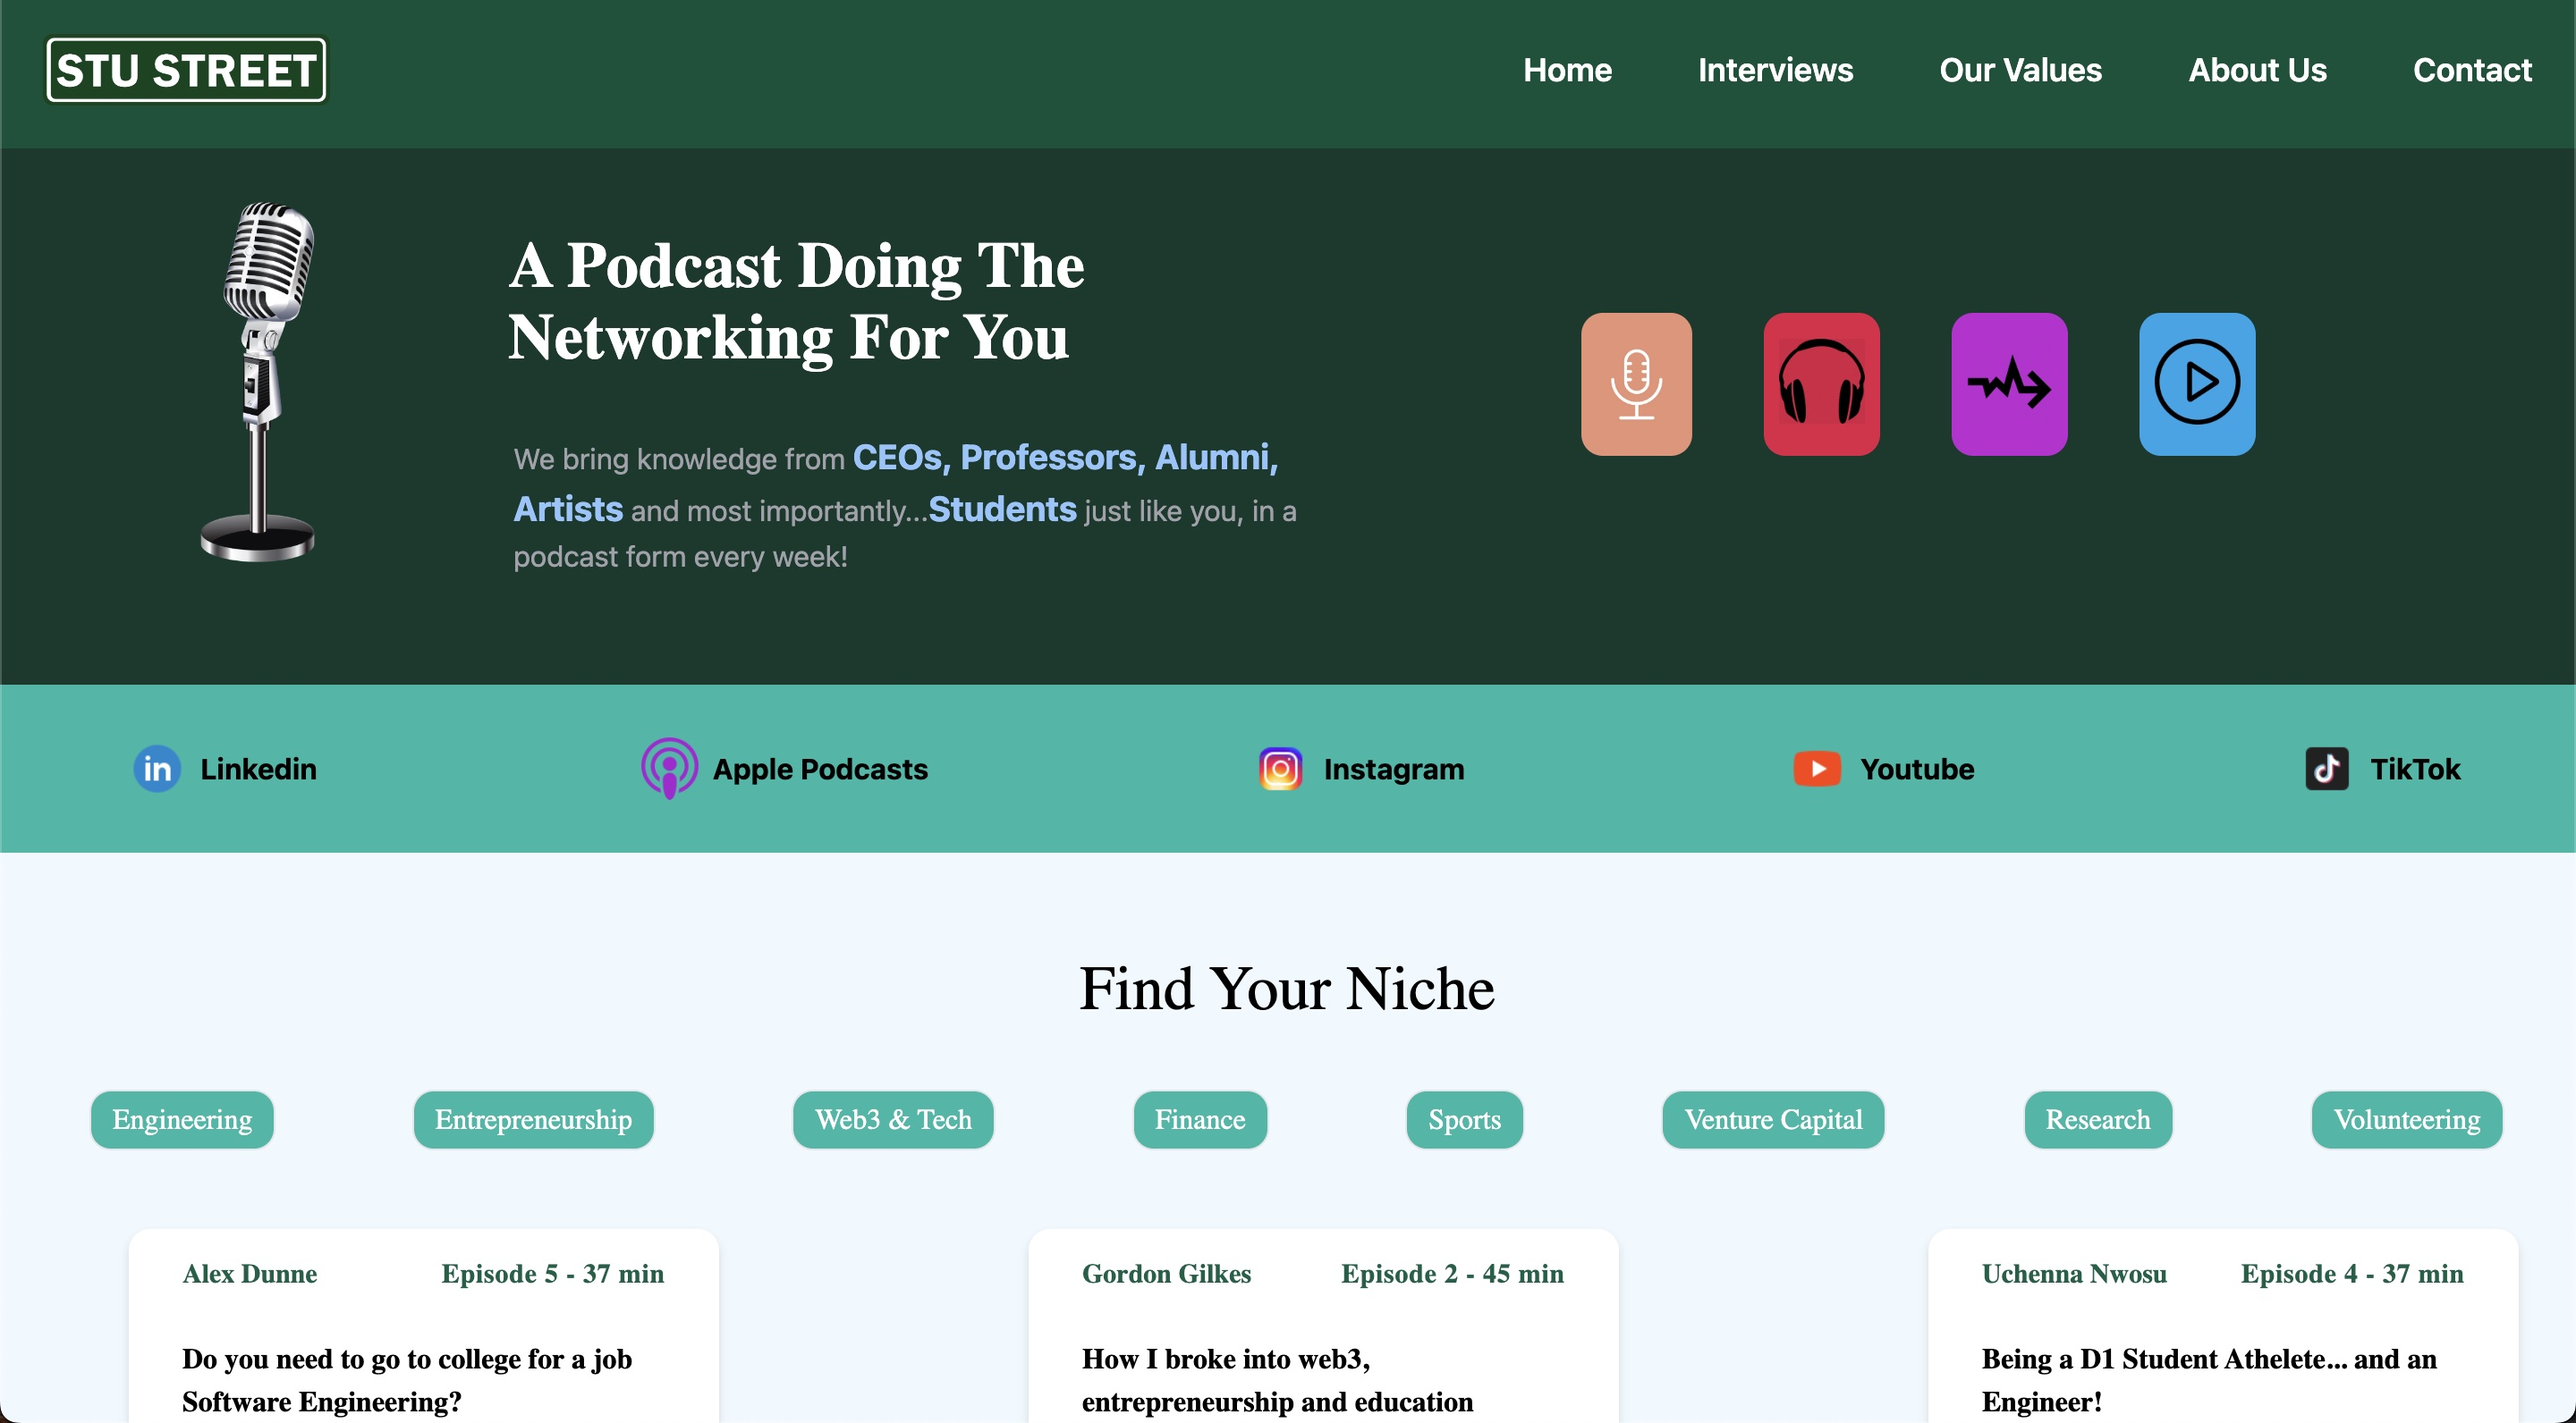
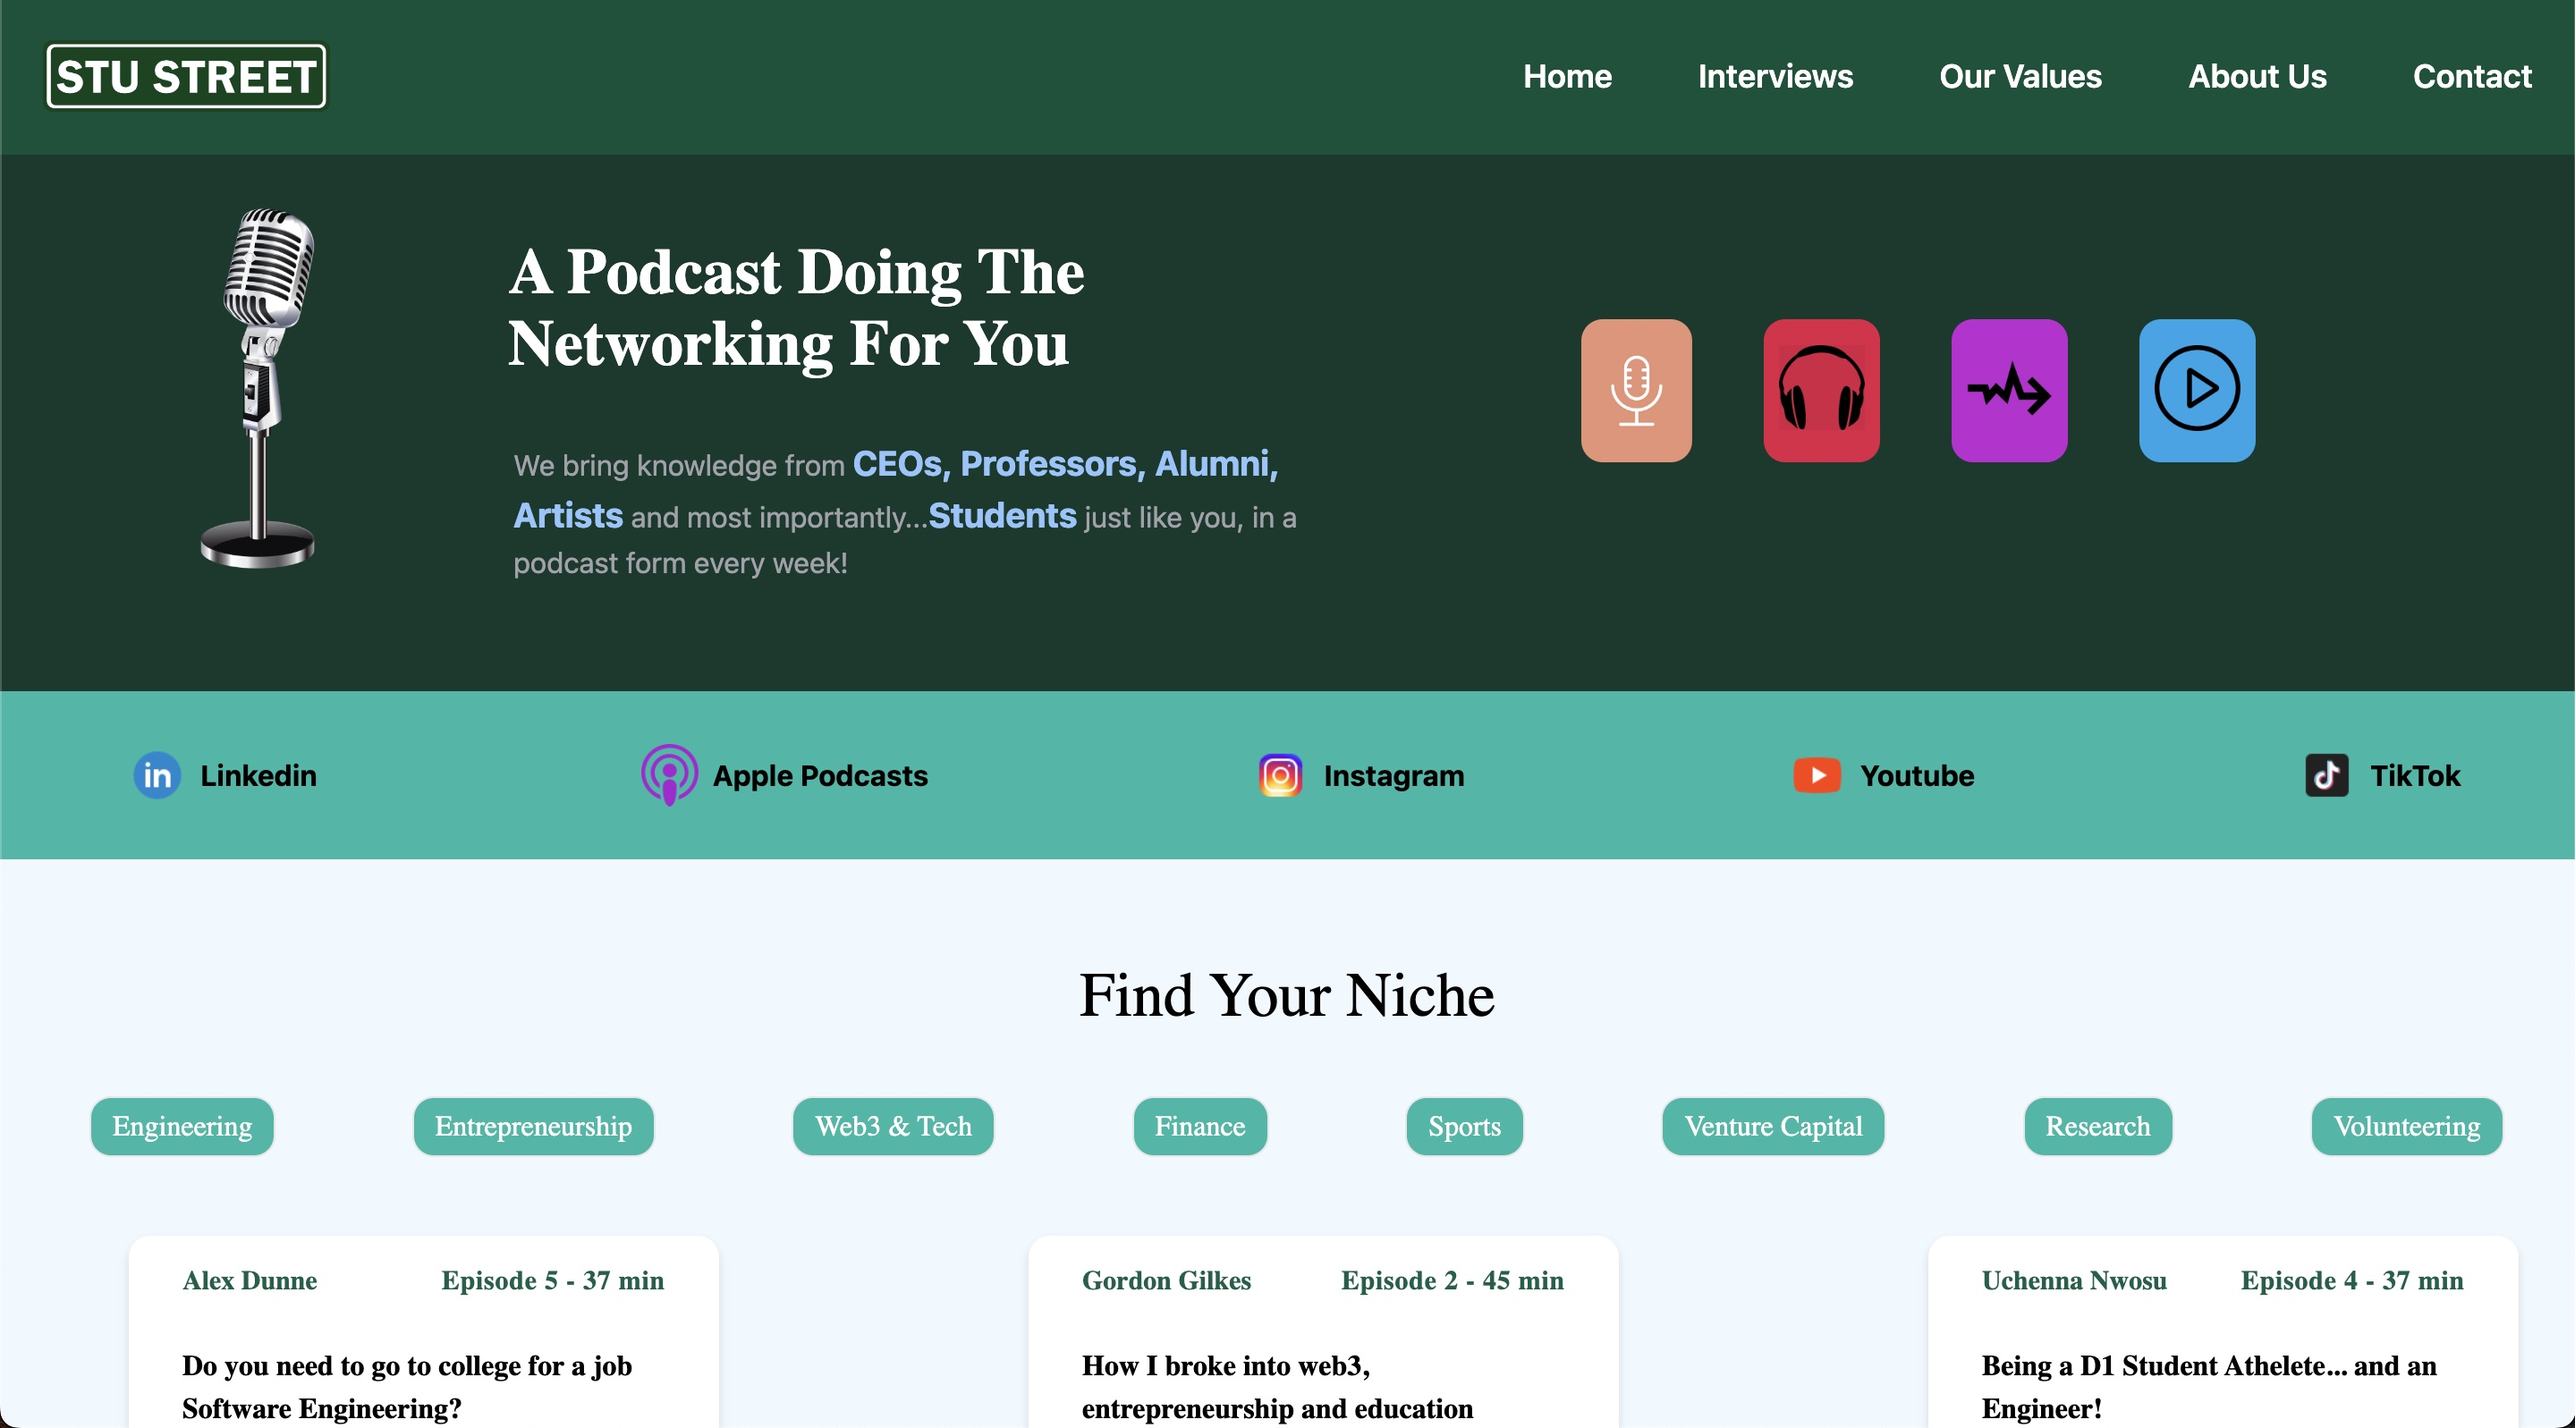
added a projects section to the webiste

diff --git a/components/mainPage/Projects.js b/components/mainPage/Projects.js
@@ -1,18 +1,24 @@
-import ai from '../../public/ai.png';
+import ai from '../../public/ai.jpg';
 import spotify from '../../public/spotify.jpg'
 import ocaml from '../../public/ocaml.jpg'
 import stustreet from '../../public/stustreet.jpg'
 import Widget from './Widget';
 
 const Projects = () => {
+   const widget = data.map(elem => {
+       return (
+           <Widget key  = {elem.id}
+                   item = {elem}
+            />
+       )
+   })
   return (
-    <div className="flex flex-wrap py-10 px-2 jusitfy-center items-center">
-        {
-        data.map((elem) => {
-            <Widget {...elem}/>
-            })
-        }
-    </div>
+      <div className='mx-[125px]'>
+          <div className="grid grid-cols-2 gap-3 mt-[30px]">
+            {widget}
+        </div>
+      </div>
+    
   )
 }
 
@@ -24,27 +30,28 @@ const data = [
         name    : "Spotify To Youtube",
         ref     : "https://github.com/ArkashJ/Spotify-to-Youtube",
         descript: "A tool to transfer Spotify Playlists to Youtube. We use Oauth2 Spotify Login for the app, and the app displays all the users songs in a table. They can select the songs they want to transfer and on the click on a button, it makes a youtube playlist of those songs",
-        src     : {spotify}
+        src     : spotify
     },
     {
         id      : 2,
-        name    : "STU STREET Podcast Website",
-        ref     : "https://github.com/ArkashJ/STU-STREET-Website",
-        descript: "A website I made for the Podcast I co-host",
-        src     : {stustreet}
+        name    : "OCaml Interpreter",
+        ref     : "https://github.com/ArkashJ/OCaml-Interpreter",
+        descript: "A Backaus Naur Form (BNF) based, context free interpreter to do any unary or binary operation on a list. It supports closures, functions and mutual recursion.",
+        src     : ocaml
     },
     {
         id      : 3,
         name    : "PersonaLearn",
         ref     : "https://github.com/ArkashJ/STU-STREET-Website",
         descript: "A tool that uses openAI to generate video recommendations for concepts based on the video transcript. The user uses our slider whenever they are confused and our code picks keywords to generate a list of recommended videos",
-        src     : {ai}
+        src     : ai
     },
     {
         id      : 4,
-        name    : "OCaml Interpreter",
-        ref     : "https://github.com/ArkashJ/OCaml-Interpreter",
-        descript: "A Backaus Naur Form (BNF) based, context free interpreter to do any unary or binary operation on a list. It supports closures, functions and mutual recursion.",
-        src     : {ocaml}
+        name    : "STU STREET Podcast Website",
+        ref     : "https://github.com/ArkashJ/STU-STREET-Website",
+        descript: "A website for the podcast (STU STREET) I co-host. Made using React & tailwind. This website highlights our vales, genres we explore and has links to all platforms our pdocast is available on",
+        src     : stustreet
     },
+    
 ]

diff --git a/components/mainPage/Widget.js b/components/mainPage/Widget.js
@@ -1,22 +1,22 @@
 import Image from 'next/image'
 
 const Widget = (props) => {
-    const url = props.ref
   return (
-    <div className='w-[250px] h-[25px] flex flex-col items-center'>
-        <h1>{props.name}</h1>
+    <div className='bg-white flex flex-col justify-between items-center space-y-[-10%] h-[450px] w-[450px] rounded-xl  drop-shadow-md'>
+        <h1 className='text-[#4c86a8] font-bold py-4 font-[700] text-[15px]'>{props.item.name}</h1>
+        <p className='podcast-title font-poppins w-[410px] px-5'>{props.item.descript}</p>
         <Image
-        src         = {props.src}
-        alt         = {props.descript}
-        width       = {250}
-        height      = {250}
-        className   = "rounded-b-lg"
-        onClick     = {() => window.open(url, '_blank')}
-    />
-        <p className='overflow-hidden break-words w-[80%]'>{props.descript}</p>
+            src         = {props.item.src}
+            alt         = {props.item.descript}
+            width       = {400}
+            height      = {400}
+            className   = "rounded-lg border-solid border-2 border-grey mb-1"
+            priority    = {true}
+            style={{cursor:'pointer', marginBottom: '10px'}}
+            onClick     = {() => window.open(props.item.ref, '_blank')}
+            />
     </div>
-    
   )
 }
-
+{/* <p className='overflow-hidden break-words'>{props.item.descript}</p> */}
 export default Widget

diff --git a/pages/index.js b/pages/index.js
@@ -1,9 +1,11 @@
 import Head from 'next/head'
 import Header from '../components/Header'
 import Persona from '../components/mainPage/Persona'
+import Projects from '../components/mainPage/Projects'
+
 export default function Home() {
   return (
-    <div className="mt-2 w-full h-screen">
+    <div className="mt-2 w-full h-[2500px]">
       
       <Head>
         <title>Portfolio Website</title>
@@ -11,6 +13,7 @@ export default function Home() {
       </Head>
       <Header/>
       <Persona/>
+      <Projects/>
     </div>
   )
 }

diff --git a/components/Header.js b/components/Header.js
@@ -3,7 +3,7 @@ import styles from '../styles/Dynamic.module.css'
 
 const Header = () => {
   return (
-    <div className='border-b-2 border-[#e2e8f0] h-[30%] w-[1500px]'>
+    <div className='position-absolute border-b-2 border-[#e2e8f0] h-[300px] w-[1500px]'>
         <h1 className='text-7xl text-center text-white font-mono'>
             I'm 
                 <ul className={styles.dynamictxt}>

diff --git a/components/mainPage/Persona.js b/components/mainPage/Persona.js
@@ -3,7 +3,7 @@ import Image from 'next/image';
 
 const Persona = (props) => {
   return (
-    <div className='flex flex-row border-b-2 border-[#e2e8f0] py-7 w-[1300px]'>
+    <div className='flex flex-row border-b-2 border-[#e2e8f0] py-7 w-[1500px]'>
         <Image 
             src         = {myImg}
             alt         = "Picture of Arkash Jain"
